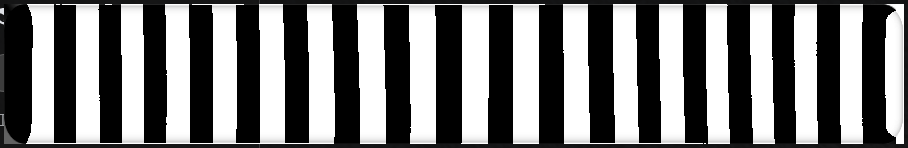
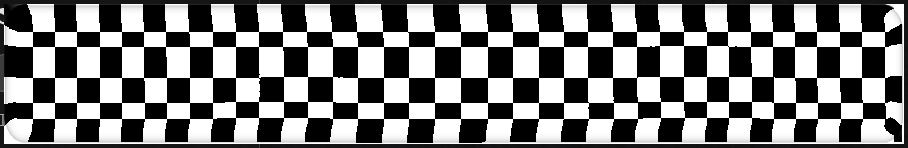
玻璃流动层：边缘一圈不加噪声（修用户报的「玻璃边缘有奇怪的条纹」）
根因：位移要采样 backdrop，而 backdrop 只有元素框以内那块。噪声是双向位移，
靠边处"朝外"那半边会采到框外，浏览器只能把框外的采样夹到最近一行/列 ——
那一条带上的背景被重复拉伸，看起来就是条纹。用户截图里玻璃**上方**的
「任务 10 已完成」被拖进玻璃内部，就是这个机制。（静态折射没这问题：它的位移朝内。）

修法：buildGlassMap 顺手按几何生成 1/4 分辨率灰度遮罩（框边 0、离框
max(bevel, amp×fadeFactor) 以内 1），warpFilterNodes 用 feImage + feComposite
arithmetic（0.5 + 遮罩×(噪声−0.5)）把它乘进噪声。框边一圈一点噪声都不加，
中间照旧流动；顺带玻璃那圈锐利高光不再被噪声糊掉。

证据：① 页面内实测遮罩图素：238×29、四角 0、中心 255、离边 0/1/2/4/8px = 3/27/76/246/255；
② 上沿 3× 目视对照（修复前 vs 修复后）存 contract/refs/glass-edge-mask-{off,on}.png；
③ 静态 11 项全绿。契约同步加 fadeFactor/edgeMask，探针夹具改棋盘（竖条纹看不出竖向涂抹）。

diff --git a/lib/client.js b/lib/client.js
@@ -2131,6 +2131,7 @@ body[data-wta-narrow="1"] [data-chat-flow] { max-width: var(--wta-narrow-width) 
 				freqSwing: 0.45,
 				ampSwing: 0.6,
 				phaseStep: Math.PI / 3,
+				fadeFactor: 2.5,   // 边缘遮罩宽度 = max(bevel, amp × 它)：框边一圈不加噪声
 			},
 		};
 		/**
@@ -2279,6 +2280,8 @@ body[data-wta-narrow="1"] [data-chat-flow] { max-width: var(--wta-narrow-width) 
 			/* 方向场用更大的圆角：转角处法线才不会跳变（原库 rule 3） */
 			const cap = Math.min(W, H) / 2 - 0.5;
 			const sdfDir = glassSDF(W, H, Math.min(radius + B, cap));
+			const warp = glassWarpOf(o);
+			const fade = warp ? Math.max(B, warp.amp * warp.recipe.fadeFactor) : 0;
 			const k = Math.min(1, Math.sqrt(GLASS_MAP_PX / (W * H)));
 			const MW = Math.max(2, Math.round(W * k)), MH = Math.max(2, Math.round(H * k));
 			const canvas = document.createElement("canvas");
@@ -2350,7 +2353,33 @@ body[data-wta-narrow="1"] [data-chat-flow] { max-width: var(--wta-narrow-width) 
 				}
 			}
 			ctx.putImageData(img, 0, 0);
-			return { url: canvas.toDataURL("image/png"), maxd: vec ? maxv : maxd, bevel: B };
+			/* 流动层的边缘遮罩（见 warpFilterNodes 的说明）：0 在框边、1 在离框 `fade`
+			   px 以内。它按**几何**算，不看压暗剖面的大小，所以不会因为哪天把 shade
+			   调小了就失效。分辨率故意降到 1/4（它是平滑渐变，拉伸回去看不出来），
+			   于是"每档尺寸多一张小地图"的编码代价可以忽略。 */
+			let maskUrl = null;
+			if (fade > 0) {
+				const kd = 4;
+				const SW = Math.max(2, Math.round(MW / kd)), SH = Math.max(2, Math.round(MH / kd));
+				const mcanvas = document.createElement("canvas");
+				mcanvas.width = SW; mcanvas.height = SH;
+				const mctx = mcanvas.getContext("2d");
+				const mimg = mctx.createImageData(SW, SH);
+				for (let y = 0; y < SH; y++) {
+					const py = (y + 0.5) / SH * H;
+					for (let x = 0; x < SW; x++) {
+						const px = (x + 0.5) / SW * W;
+						/* 平方一下：fade 带内侧才真正满幅，靠近框边衰减得更快 */
+						const t = Math.max(0, Math.min(1, -sdf(px, py) / fade));
+						const v = Math.round(255 * t * t);
+						const i = (y * SW + x) * 4;
+						mimg.data[i] = v; mimg.data[i + 1] = v; mimg.data[i + 2] = v; mimg.data[i + 3] = 255;
+					}
+				}
+				mctx.putImageData(mimg, 0, 0);
+				maskUrl = mcanvas.toDataURL("image/png");
+			}
+			return { url: canvas.toDataURL("image/png"), maskUrl, maxd: vec ? maxv : maxd, bevel: B };
 		}
 
 		/**
@@ -2383,10 +2412,25 @@ body[data-wta-narrow="1"] [data-chat-flow] { max-width: var(--wta-narrow-width) 
 		}
 
 		/**
-		 * 流动层的两个原语：噪声源 + 一次额外位移（接在折射之后、压暗补光之前）。
+		 * 流动层的原语：噪声源 → **边缘遮罩** → 一次额外位移。
+		 *
+		 * 为什么必须遮罩（2026-09-19 用户截图报「玻璃边缘有奇怪的条纹」）：
+		 * 位移是要**采样 backdrop** 的，而 backdrop 只有元素框以内那一块。噪声是
+		 * 以 0 为中心的双向位移，靠边的地方"朝外"那半边就会采到框外 —— 浏览器只能
+		 * 把边框外的采样夹到最近的一行/一列，于是那一条带上的背景被**重复拉伸**，
+		 * 看起来就是一层层横向条纹（玻璃上沿尤其明显，因为玻璃压在会话文字上）。
+		 * 静态折射不出这个问题：它的位移方向本来就是朝玻璃内部的。
+		 *
+		 * 遮罩从哪来：`buildGlassMap` 顺手按**几何**生成一张小图（框边 0、离框 `fade`
+		 * px 以内 1），像地图一样挂进滤镜。用它而不是拿压暗剖面（B 通道）凑：
+		 * 剖面的数值大小本来就小、离框十几像素处就几乎回到中值，凑出来的遮罩
+		 * 只挡住最外面两三个像素，等于没挡（实测过：修之前边框带两相位差 13.5）。
+		 *
 		 * `live` 是驱动那边的登记表 —— 加一项，tickWarp 就会按时喂它新属性值。
 		 */
-		function warpFilterNodes(warp, source, result, live) {
+		function warpFilterNodes(warp, map, source, result, live) {
+			const mask = svgEl("feImage", { preserveAspectRatio: "none", result: "warpMask" });
+			mask.setAttribute("href", map.maskUrl);
 			const noise = svgEl("feTurbulence", {
 				type: warp.recipe.type,
 				baseFrequency: warp.recipe.baseFrequency,
@@ -2394,12 +2438,18 @@ body[data-wta-narrow="1"] [data-chat-flow] { max-width: var(--wta-narrow-width) 
 				seed: warp.recipe.seed,
 				result: "warpNoise",
 			});
+			/* 0.5 + 遮罩×(噪声−0.5)：k1 乘、k2 减掉遮罩带进来的偏置、k4 补回中值。
+			   （遮罩是灰度图，R/G/B 都是同一条渐变；alpha 不参与。） */
+			const field = svgEl("feComposite", {
+				in: "warpMask", in2: "warpNoise", operator: "arithmetic",
+				k1: 1, k2: -0.5, k3: 0, k4: 0.5, result: "warpField",
+			});
 			const disp = svgEl("feDisplacementMap", {
-				in: source, in2: "warpNoise", scale: 2 * warp.amp,
+				in: source, in2: "warpField", scale: 2 * warp.amp,
 				xChannelSelector: "R", yChannelSelector: "G", result,
 			});
 			live.push({ noise, disp, recipe: warp.recipe, amp: warp.amp });
-			return [noise, disp];
+			return [mask, noise, field, disp];
 		}
 
 		/**
@@ -2441,6 +2491,13 @@ body[data-wta-narrow="1"] [data-chat-flow] { max-width: var(--wta-narrow-width) 
 					xChannelSelector: "R", yChannelSelector: "G", result: "glass",
 				}));
 			}
+			/* 边缘剖面在 B 通道里，以 128 为中值：取出来当作图层用。
+			   放在流动层**之前**：流动层的边缘遮罩就是从这条 edgeRGB 里取的
+			   （见 warpFilterNodes 的说明），滤镜链是按元素顺序求值的。 */
+			f.append(svgEl("feColorMatrix", {
+				in: "map", type: "matrix",
+				values: "0 0 1 0 0  0 0 1 0 0  0 0 1 0 0  0 0 0 0 1", result: "edgeRGB",
+			}));
 			/* 流动层：叠一条随时间变化的噪声位移（配方见 GLASS_WARP）。
 			   放在这里而不是位移之前 —— 它该扭的是"已经被玻璃掰弯的那幅像"；
 			   压暗/补光用的仍是静态地图的 B 通道，边缘剖面不受流动影响。
@@ -2448,12 +2505,7 @@ body[data-wta-narrow="1"] [data-chat-flow] { max-width: var(--wta-narrow-width) 
 			   行为能跑，但读的人得记住 SVG 的这条规则，改名字更直白。 */
 			const warp = glassWarpOf(o);
 			const shaped = warp ? "flowed" : "glass";
-			if (warp) f.append(...warpFilterNodes(warp, "glass", shaped, live));
-			/* 边缘剖面在 B 通道里，以 128 为中值：取出来当作图层用 */
-			f.append(svgEl("feColorMatrix", {
-				in: "map", type: "matrix",
-				values: "0 0 1 0 0  0 0 1 0 0  0 0 1 0 0  0 0 0 0 1", result: "edgeRGB",
-			}));
+			if (warp) f.append(...warpFilterNodes(warp, map, "glass", shaped, live));
 			const shade = svgEl("feComponentTransfer", { in: "edgeRGB", result: "shadeLayer" });
 			for (const ch of ["R", "G", "B"]) shade.append(svgEl("feFunc" + ch, { type: "table", tableValues: "0 1 1" }));
 			f.append(shade);

diff --git a/tools/probes/glass-warp.js b/tools/probes/glass-warp.js
@@ -16,17 +16,19 @@ for (const old of document.querySelectorAll("[" + TAG + "]")) old.remove();
 const WARP_KEY = "dsh-warm-x-glassWarp";
 const glassSvg = document.querySelector("[data-wta-glass-svg]");
 const filters = glassSvg ? Array.from(glassSvg.querySelectorAll("filter")) : [];
-/* 流动层的两颗原语按**结构**认（紧跟在 feTurbulence 后面的位移），不按结果名认 ——
-   结果名是插件内部的名字，探针抄一份就等于把同一个含义写两遍。 */
-const warpNodes = glassSvg
-	? Array.from(glassSvg.querySelectorAll("feDisplacementMap")).filter((d) => {
-		const prev = d.previousElementSibling;
-		return prev && prev.tagName === "feTurbulence";
-	})
+/* 流动层的原语按**结构**认：在同一个滤镜里，**排在 feTurbulence 之后**的位移就是
+   流动层那一次（静态折射的位移排在它前面）。不按结果名认 —— 结果名是插件内部的名字，
+   探针抄一份就等于把同一个含义写两遍。 */
+const warpPairs = glassSvg
+	? Array.from(glassSvg.querySelectorAll("filter")).map((f) => {
+		const kids = Array.from(f.children);
+		const first = kids.findIndex((n) => n.tagName === "feTurbulence");
+		if (first < 0) return { noise: null, disp: [] };
+		return { noise: kids[first], disp: kids.slice(first).filter((n) => n.tagName === "feDisplacementMap") };
+	}).filter((pair) => pair.noise)
 	: [];
-const noiseNodes = warpNodes
-	.map((d) => d.previousElementSibling)
-	.filter(Boolean);
+const noiseNodes = warpPairs.map((pair) => pair.noise);
+const warpNodes = warpPairs.flatMap((pair) => pair.disp);
 
 /* 玻璃元素按"我们自己写上去的那条内联 backdrop-filter"找：卡片本身没有 data-slot
    （data-slot 在它的祖先上），所以不去抄一份选择器，也不假设 DSH 的 DOM 结构。
@@ -102,10 +104,15 @@ const srcFilter = filters.find((f) => f.id.endsWith("-full"));
 const FIXTURE = { x: 24, y: 24, w: 900, h: 140 };
 let fixtureRect = null;
 if (srcFilter) {
+	/* 底纹用**棋盘**而不是竖条纹：竖条纹在 y 方向是常量，"采样被夹到框边"这种
+	   竖直方向的涂抹在它上面**根本看不出来**（像素差会照样是 0 或很小），
+	   而真实会话文字是二维内容 —— 用户看到的正是文字被拉成条纹。棋盘两个方向都变，
+	   涂抹会在图上表现为方格被拉长。 */
 	const fixture = document.createElement("div");
 	fixture.setAttribute(TAG, "");
-	fixture.style.cssText = "position:fixed;z-index:2147483000;background-color:#000;"
-		+ "background-image:repeating-linear-gradient(90deg,#000 0 24px,#fff 24px 48px);"
+	fixture.style.cssText = "position:fixed;z-index:2147483000;background-color:#fff;"
+		+ "background-image:conic-gradient(#fff 0 25%,#000 0 50%,#fff 0 75%,#000 0);"
+		+ "background-size:48px 48px;"
 		+ "left:" + FIXTURE.x + "px;top:" + FIXTURE.y + "px;width:" + FIXTURE.w + "px;height:" + FIXTURE.h + "px";
 	const lens = document.createElement("div");
 	lens.setAttribute(TAG, "");

diff --git a/STATE.md b/STATE.md
@@ -35,6 +35,50 @@
    替代路是把带限位移挂在会话内容那个大元素上，实测每帧多花 ≥17ms
    （`tools/probes/glass-cost.js`：中位帧 33ms → 50ms，而且只要挂着就付），**决定不做**。
 
+## 0.5 正在做的事（2026-09-19 傍晚，上下文压缩前的交接）
+
+**用户当前三条反馈，按他给的优先级：**
+
+1. **玻璃边缘有奇怪的条纹** —— 已修（见下），**待提交**；
+2. **输入框太宽** —— 等用户给目标宽度，见"待办 / 等用户"；
+3. **玻璃下文字扭曲不美观** —— 用户明确说"**最后修，我和你先讨论过后再修**"。**别自己动手调**。
+
+**已做（未提交）：**
+
+- `lib/client.js`：`buildGlassMap` 里顺手按**几何**生成一张 1/4 分辨率的灰度遮罩
+  （框边 0、离框 `max(bevel, amp × fadeFactor)` px 以内 1），`warpFilterNodes` 多接一张
+  `feImage` + 一条 `feComposite arithmetic`（`0.5 + 遮罩×(噪声−0.5)`）把噪声乘进去；
+  `GLASS_WARP.ripple` 加 `fadeFactor: 2.5`。契约 `glass.warp` 同步加 `fadeFactor`/`edgeMask`，
+  检查项「动效门槛」把 `fadeFactor` 也纳入核对。
+- `tools/probes/glass-warp.js`：夹具底纹从竖条纹改成**棋盘**（竖条纹在 y 方向是常量，
+  竖直方向的涂抹在它上面根本看不出来）；流动层原语识别改成"同一滤镜里排在 feTurbulence 之后"。
+- `contract/refs/`：`glass-warp-phase-a/b.png` 重拍（当前代码 + 棋盘夹具）；
+  新增 `glass-edge-mask-off.png` / `glass-edge-mask-on.png`（上沿 3× 对照，修复前 vs 修复后）。
+
+**证据：**
+
+- 遮罩图素值（页面内实测）：`238×29`，四角 0、中心 255，离边 0/1/2/4/8 px 处 3/27/76/246/255
+  —— 遮罩确实**只在框边外圈为 0**；
+- 目视对照（我自己看过图）：修复前上沿棋盘最上一行被拉成**连续白带**，修复后是**干净棋盘**；
+- 静态 11 项全绿（`node tools/check.mjs`）。
+
+**测量的坑（别再踩）**：探针夹具借用的是**插件的真滤镜**，而那条滤镜是按**另一个元素（卡片）**
+的尺寸建的；两次加载之间卡片高度可能差几像素 → 静态折射跟着变一点 → 夹具上**到处**都有
+几个像素的相位差（连玻璃最外圈也有，实测 15 上下）。所以"带内相位差"**不能**用来判定
+边缘干不干净 —— 判定靠目视对照图 + 遮罩图素值。
+
+**待办 / 等用户：**
+
+1. **输入框宽度**：插件**没有任何宽度规则**（已 grep 确认；只有默认关掉的 `narrow` 项管正文列）。
+   宽度是 DSH 自己的偏好：`localStorage['dsh.conversation.contentWidth']`（值 = 卡片宽 − 32，
+   下限 640），没偏好时 = `clamp(680, 列宽×0.64, 920) + 32`。三个选项：
+   ① 拖会话宽度手柄（原生、即时）；② 控制台写偏好后刷新；③ 要"永远不超过某个宽度"就得让
+   插件加上限（那是改设计，先进契约）。**等用户给目标宽度**（或说明第 2 张图是在多宽的窗口下截的）。
+2. **文字扭曲的美观**：等讨论。可调项都在 `GLASS_WARP` 一处：`amp`（4.2 偏大，2.5~3 更含蓄）、
+   `baseFrequency`（0.0055 调小 = 波长更长更柔）、`numOctaves`（2 → 1 更平滑）、
+   `ampSwing`/`freqSwing`（"动"的幅度）。
+3. 上面"已做（未提交）"那一批还没提交。
+
 ## 1. 这一轮做了什么（可复核）
 
 **A. 本轮新增：液态玻璃的「流动层」（用户要的新功能）**
